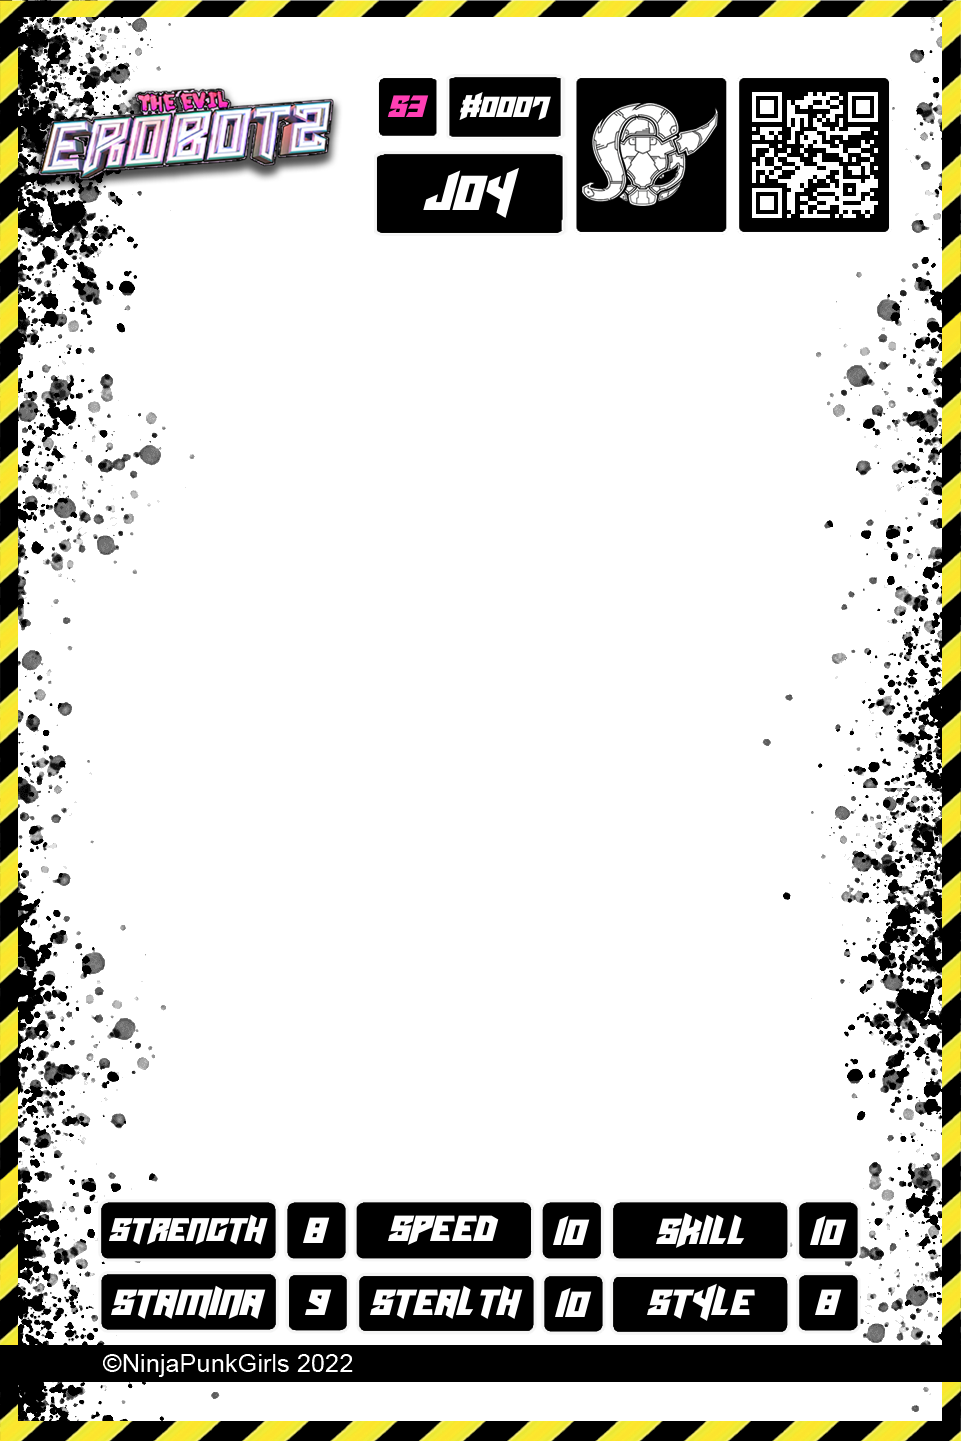
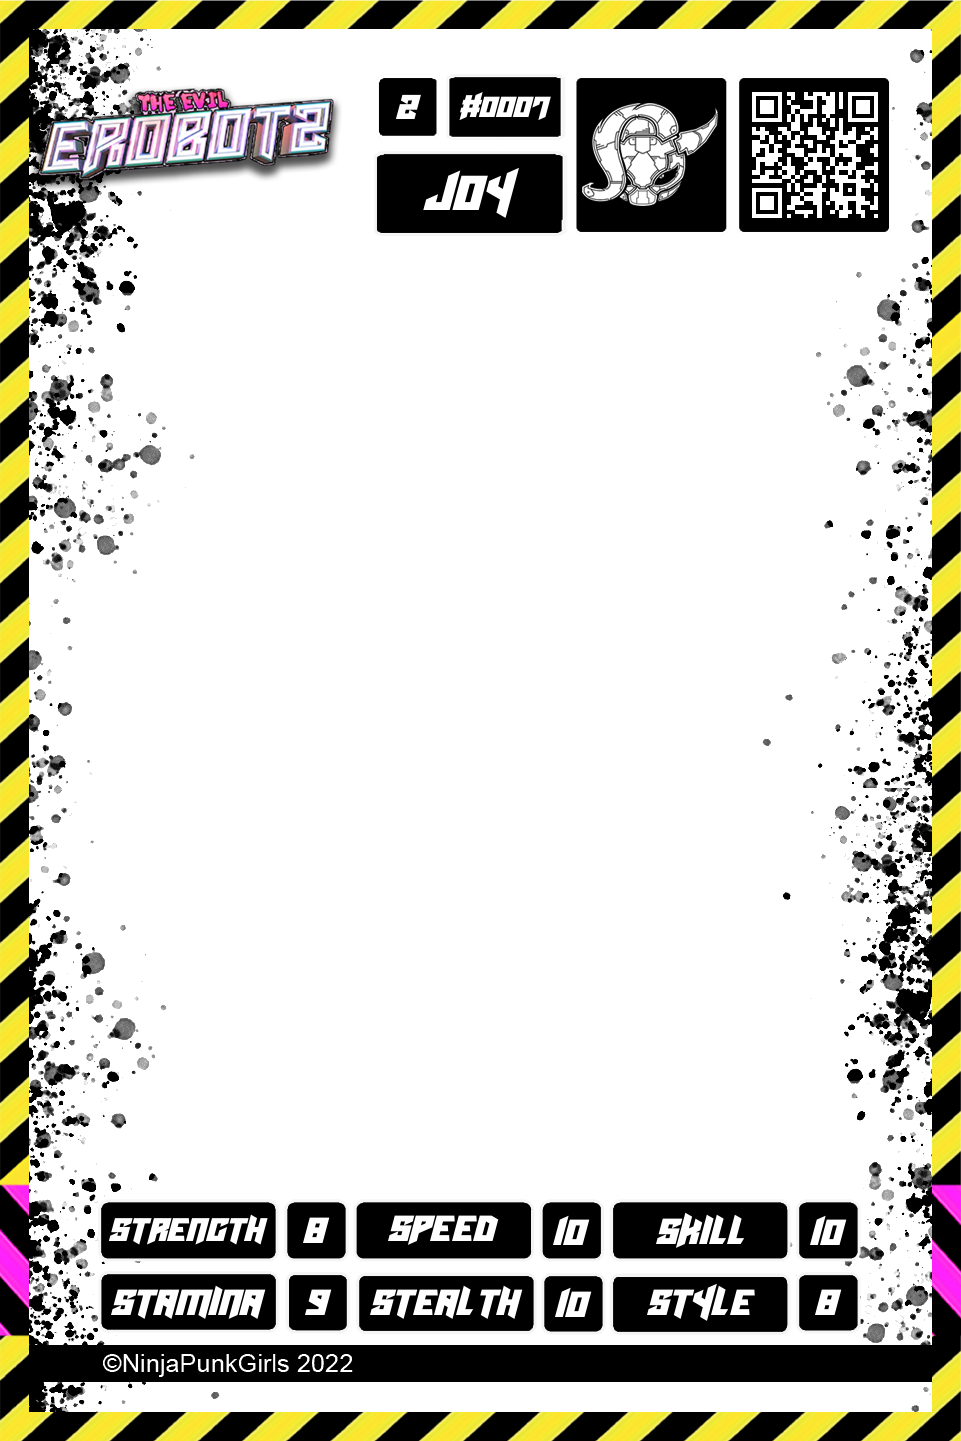
NPG cards: hue spinner test (/viewer/card/hue); series '2' in white, always-yellow outer edge on the frame layer, QR -> /c/s2-<no>

Changed region(s): [[0.0, 0.0, 1.0, 0.9993], [0.7804, 0.0625, 0.9365, 0.1561], [0.4058, 0.0625, 0.437, 0.0937]]

diff --git a/src/app/viewer/card/hue/HueLab.tsx b/src/app/viewer/card/hue/HueLab.tsx
@@ -1,0 +1,67 @@
+'use client';
+
+import { useState } from 'react';
+import { LiveCard } from '@/components/LiveCard';
+import { LIVE_CARDS, liveCardBase } from '@/lib/npgLiveCards';
+
+/**
+ * Hue-spinner test, after the original NPG series: each card's layers get a hue rotation. The background is spun freely;
+ * the frame (stripes, effects, logo) and the girl herself only when switched on, because the original series used it
+ * sparingly on assets. Pure CSS filters on the card's layers: bg <img>, the girl's WebGL canvas, frame <img>.
+ */
+type Layer = 'bg' | 'frame' | 'girl';
+const spin = () => Math.floor(Math.random() * 360);
+const fresh = () => LIVE_CARDS.map(() => ({ bg: spin(), frame: spin(), girl: spin() }));
+
+export function HueLab() {
+  const [hues, setHues] = useState(() => LIVE_CARDS.map(() => ({ bg: 0, frame: 0, girl: 0 })));
+  const [on, setOn] = useState<Record<Layer, boolean>>({ bg: true, frame: false, girl: false });
+  const deg = (i: number, l: Layer) => (on[l] ? hues[i][l] : 0);
+  const spinOne = (i: number) => setHues((h) => h.map((x, j) => (j === i ? { bg: spin(), frame: spin(), girl: spin() } : x)));
+  const setOne = (i: number, l: Layer, v: number) => setHues((h) => h.map((x, j) => (j === i ? { ...x, [l]: v } : x)));
+
+  return (
+    <>
+      <div className="panel flex flex-wrap items-center gap-3">
+        <button className="btn" onClick={() => setHues(fresh())}>
+          Spin all
+        </button>
+        <button className="btn" onClick={() => setHues(LIVE_CARDS.map(() => ({ bg: 0, frame: 0, girl: 0 })))}>
+          Reset
+        </button>
+        <span className="text-dim">Spin these layers:</span>
+        {(['bg', 'frame', 'girl'] as Layer[]).map((l) => (
+          <label key={l} className="flex items-center gap-1.5">
+            <input type="checkbox" checked={on[l]} onChange={(e) => setOn({ ...on, [l]: e.target.checked })} />
+            {l === 'bg' ? 'Background' : l === 'frame' ? 'Frame + effects' : 'Girl'}
+          </label>
+        ))}
+      </div>
+      <div className="grid grid-cols-1 gap-6 sm:grid-cols-2 lg:grid-cols-4">
+        {LIVE_CARDS.map((c, i) => (
+          <div
+            key={c.slug}
+            className="flex flex-col gap-2 [&_canvas]:[filter:hue-rotate(var(--girl))] [&_div[role=img]>img:first-child]:[filter:hue-rotate(var(--bg))] [&_div[role=img]>img:last-child]:[filter:hue-rotate(var(--frame))]"
+            style={{ '--bg': `${deg(i, 'bg')}deg`, '--frame': `${deg(i, 'frame')}deg`, '--girl': `${deg(i, 'girl')}deg` } as React.CSSProperties}
+          >
+            <LiveCard base={liveCardBase(c.slug)} name={c.name} box={c.box} rig={c.rig} />
+            <div className="flex flex-col gap-1 text-xs text-dim">
+              {(['bg', 'frame', 'girl'] as Layer[])
+                .filter((l) => on[l])
+                .map((l) => (
+                  <label key={l} className="flex items-center gap-2">
+                    <span className="w-12">{l}</span>
+                    <input type="range" min={0} max={359} value={hues[i][l]} onChange={(e) => setOne(i, l, +e.target.value)} className="flex-1" />
+                    <span className="w-10 text-right">{hues[i][l]}°</span>
+                  </label>
+                ))}
+              <button className="btn self-start" onClick={() => spinOne(i)}>
+                Spin {c.name}
+              </button>
+            </div>
+          </div>
+        ))}
+      </div>
+    </>
+  );
+}

diff --git a/src/app/viewer/card/hue/page.tsx b/src/app/viewer/card/hue/page.tsx
@@ -1,0 +1,26 @@
+import Link from 'next/link';
+import { HueLab } from './HueLab';
+
+export const metadata = { title: 'Hue spinner · Live cards · TokenBlaster.lol' };
+
+export default function HuePage() {
+  return (
+    <main className="mx-auto flex w-full max-w-[1400px] flex-col gap-3 p-2.5">
+      <header className="panel">
+        <div className="flex flex-wrap items-baseline justify-between gap-2">
+          <h1 className="text-2xl font-bold text-hot">
+            Hue spinner<span className="blink">_</span>
+          </h1>
+          <Link href="/viewer/card" className="text-dim hover:text-hot">
+            &lt; Live cards
+          </Link>
+        </div>
+        <p className="mt-1 text-dim">
+          The original NPG series spun the hue of card backgrounds and elements (and, sparingly, the assets) for variety. Spin
+          all, or spin and fine-tune one card at a time.
+        </p>
+      </header>
+      <HueLab />
+    </main>
+  );
+}
